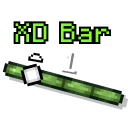
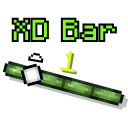
A lot™ of Config Menu changes
* Refactored most of ConfigMenu.java's class to match Lysten's updated config menu
* Replaced Enum "Style" to "State"
* Replaced "Show distance" to "Show small distances"
* Renewed the mod's icon

Changed region(s): [[0.4375, 0.125, 0.9375, 0.3438], [0.0625, 0.125, 0.4062, 0.3438], [0.4688, 0.375, 0.5938, 0.5938]]

diff --git a/src/main/java/me/lukiiy/xdbar/ConfigMenu.java b/src/main/java/me/lukiiy/xdbar/ConfigMenu.java
@@ -4,6 +4,7 @@ import com.google.common.collect.Lists;
 import net.fabricmc.api.EnvType;
 import net.fabricmc.api.Environment;
 import net.minecraft.ChatFormatting;
+import net.minecraft.client.gui.Font;
 import net.minecraft.client.gui.GuiGraphics;
 import net.minecraft.client.gui.components.*;
 import net.minecraft.client.gui.components.events.GuiEventListener;
@@ -11,11 +12,15 @@ import net.minecraft.client.gui.layouts.HeaderAndFooterLayout;
 import net.minecraft.client.gui.layouts.LayoutSettings;
 import net.minecraft.client.gui.layouts.LinearLayout;
 import net.minecraft.client.gui.narration.NarratableEntry;
+import net.minecraft.client.gui.narration.NarratedElementType;
+import net.minecraft.client.gui.narration.NarrationElementOutput;
 import net.minecraft.client.gui.screens.Screen;
 import net.minecraft.network.chat.CommonComponents;
 import net.minecraft.network.chat.Component;
 
+import java.util.Arrays;
 import java.util.List;
+import java.util.Optional;
 
 @Environment(EnvType.CLIENT)
 public class ConfigMenu extends Screen {
@@ -33,12 +38,12 @@ public class ConfigMenu extends Screen {
     @Override
     protected void init() {
         layout.addToHeader(LinearLayout.vertical().spacing(8)).addChild(new StringWidget(TITLE, font), LayoutSettings::alignHorizontallyCenter);
-
         list = new ConfigList();
 
         layout.addToContents(list);
         layout.addToFooter(LinearLayout.horizontal().spacing(8)).addChild(Button.builder(CommonComponents.GUI_DONE, b -> onClose()).width(100).build());
         layout.visitWidgets(this::addRenderableWidget);
+
         repositionElements();
     }
 
@@ -62,8 +67,12 @@ public class ConfigMenu extends Screen {
     }
 
     private class ConfigList extends ContainerObjectSelectionList<ConfigList.Entry> {
+        public final Font font;
+
         public ConfigList() {
             super(ConfigMenu.this.minecraft, ConfigMenu.this.width, layout.getContentHeight(), layout.getHeaderHeight(), 24);
+
+            font = ConfigMenu.this.font;
             loadStuff();
         }
 
@@ -87,8 +96,45 @@ public class ConfigMenu extends Screen {
             return 310;
         }
 
-        abstract static class Entry extends ContainerObjectSelectionList.Entry<Entry> {
+        private EditBox createEditBox(String key, String defaultValue, int width) {
+            EditBox box = new EditBox(font, 0, 0, width, 20, Component.literal(key));
+
+            box.setValue(XDBar.CONFIG.getOrDefault(key, defaultValue));
+            return box;
+        }
+
+        private record StaticNarration(Component text) implements NarratableEntry {
+            @Override
+            public NarrationPriority narrationPriority() {
+                return NarrationPriority.HOVERED;
+            }
+
+            @Override
+            public void updateNarration(NarrationElementOutput output) {
+                output.add(NarratedElementType.TITLE, text);
+            }
+        }
+
+        abstract class Entry extends ContainerObjectSelectionList.Entry<Entry> {
             protected final List<AbstractWidget> children = Lists.newArrayList();
+            protected final Component label;
+            protected final StaticNarration labelNarration;
+            protected AbstractWidget widget;
+
+            protected Entry(Component label, AbstractWidget widget) {
+                this.label = label;
+                this.labelNarration = label == null ? null : new StaticNarration(label);
+                setWidget(widget);
+            }
+
+            protected void setWidget(AbstractWidget widget) {
+                this.widget = widget;
+
+                if (widget != null) {
+                    if (!(widget instanceof CycleButton<?>)) widget.setMessage(label);
+                    children.add(widget);
+                }
+            }
 
             @Override
             public List<? extends GuiEventListener> children() {
@@ -97,149 +143,98 @@ public class ConfigMenu extends Screen {
 
             @Override
             public List<? extends NarratableEntry> narratables() {
-                return children;
+                return widget != null ? children : (labelNarration != null ? List.of(labelNarration) : List.of());
+            }
+
+            @Override
+            public void render(GuiGraphics instance, int index, int y, int x, int width, int height, int mx, int my, boolean hovered, float delta) {
+                if (label != null) instance.drawString(ConfigList.this.font, label, x, y + 6, -1);
+
+                if (widget != null) {
+                    widget.setX(x + width - widget.getWidth());
+                    widget.setY(y);
+                    widget.render(instance, mx, my, delta);
+                }
             }
         }
 
         class CategoryEntry extends Entry {
-            private final Component text;
-
-            public CategoryEntry(String label) {
-                this.text = Component.translatable("xdbar.config.category." + label).withStyle(ChatFormatting.YELLOW, ChatFormatting.BOLD);
+            public CategoryEntry(String key) {
+                super(Component.translatable("xdbar.config.category." + key).withStyle(ChatFormatting.YELLOW, ChatFormatting.BOLD), null);
             }
 
             @Override
-            public void render(GuiGraphics guiGraphics, int index, int y, int x, int width, int height, int mx, int my, boolean hovered, float delta) {
-                guiGraphics.drawCenteredString(font, text, x + width / 2, y + 6, -1);
+            public void render(GuiGraphics instance, int index, int y, int x, int width, int h, int mx, int my, boolean hovered, float delta) {
+                instance.drawCenteredString(font, label, x + width / 2, y + 6, -1);
             }
         }
 
         class BooleanEntry extends Entry {
-            private final Checkbox checkbox;
-            private final Component label;
-
             public BooleanEntry(String key) {
-                this.label = Component.translatable("xdbar.setting." + key);
-                boolean value = XDBar.CONFIG.getBoolean(key);
-
-                checkbox = Checkbox.builder(Component.empty(), font).selected(value).onValueChange((box, val) -> XDBar.CONFIG.set(key, String.valueOf(val))).build();
-                children.add(checkbox);
-            }
-
-            @Override
-            public void render(GuiGraphics guiGraphics, int index, int y, int x, int width, int height, int mx, int my, boolean hovered, float delta) {
-                guiGraphics.drawString(font, label, x, y + 6, -1);
-
-                checkbox.setX(x + width - Checkbox.getBoxSize(font));
-                checkbox.setY(y + 2);
-                checkbox.render(guiGraphics, mx, my, delta);
+                super(Component.translatable("xdbar.setting." + key), Checkbox.builder(Component.empty(), font).selected(XDBar.CONFIG.getBoolean(key)).onValueChange((b, v) -> XDBar.CONFIG.set(key, String.valueOf(v))).build());
             }
         }
 
         class IntEntry extends Entry {
-            private final EditBox box;
-            private final Component label;
-
             public IntEntry(String key, int min, int max) {
-                this.label = Component.translatable("xdbar.setting." + key);
-                String value = XDBar.CONFIG.get(key);
+                super(Component.translatable("xdbar.setting." + key), createEditBox(key, "0", 60));
+                EditBox box = (EditBox) widget;
 
-                box = new EditBox(font, 0, 0, 60, 20, Component.literal(key));
-                box.setValue(value != null ? value : "");
                 box.setFilter(s -> s.isEmpty() || s.matches("\\d+"));
-                box.setResponder(s -> {
-                    if (s.isEmpty()) {
-                        XDBar.CONFIG.set(key, "0");
-                        return;
-                    }
-
-                    XDBar.CONFIG.set(key, String.valueOf(Math.clamp(Integer.parseInt(s), min, max)));
-                });
-                box.setTooltip(Tooltip.create(Component.translatable("xdbar.config.intbox", min, max)));
-
-                children.add(box);
-            }
-
-            @Override
-            public void render(GuiGraphics guiGraphics, int index, int y, int x, int width, int height, int mx, int my, boolean hovered, float delta) {
-                guiGraphics.drawString(font, label, x, y + 6, -1);
-
-                box.setX(x + width - box.getWidth());
-                box.setY(y);
-                box.render(guiGraphics, mx, my, delta);
+                box.setResponder(s -> XDBar.CONFIG.set(key, String.valueOf(Math.clamp(s.isEmpty() ? 0 : Integer.parseInt(s), min, max))));
             }
         }
 
         class ColorEntry extends Entry {
-            private final EditBox box;
-            private final Component label;
-
             public ColorEntry(String key) {
-                this.label = Component.translatable("xdbar.setting." + key);
+                super(Component.translatable("xdbar.setting." + key), createEditBox(key, "", 60));
+                EditBox box = (EditBox) widget;
 
-                String value = XDBar.CONFIG.get(key);
-                String initHex = "";
-
-                if (value != null) {
-                    try { initHex = Integer.toHexString(Integer.parseInt(value)); } catch (NumberFormatException ignored) {}
-                }
-
-                box = new EditBox(font, 0, 0, 60, 20, Component.literal(key));
-                box.setValue(initHex);
                 box.setMaxLength(8);
                 box.setFilter(s -> s.matches("^[0-9A-Fa-f]{0,8}$"));
-                box.setResponder(s -> XDBar.CONFIG.set(key, String.valueOf(XDBar.hexToInt(s))));
+                box.setValue(Integer.toHexString(Integer.parseInt(XDBar.CONFIG.getOrDefault(key, "0"))));
+                box.setResponder(s -> XDBar.CONFIG.set(key, String.valueOf(hexToInt(s))));
                 box.setTooltip(Tooltip.create(Component.translatable("xdbar.config.colortip")));
-
-                children.add(box);
             }
 
             @Override
-            public void render(GuiGraphics guiGraphics, int index, int y, int x, int width, int height, int mx, int my, boolean hovered, float delta) {
-                guiGraphics.drawString(font, label, x, y + 6, -1);
-                box.setX(x + width - box.getWidth());
-                box.setY(y);
-                box.render(guiGraphics, mx, my, delta);
+            public void render(GuiGraphics instance, int index, int y, int x, int width, int h, int mx, int my, boolean hovered, float delta) {
+                super.render(instance, index, y, x, width, h, mx, my, hovered, delta);
 
-                int parsed = XDBar.hexToInt(box.getValue());
-                if (parsed != 0) {
+                int color = hexToInt(((EditBox) widget).getValue());
+                if (color != 0) {
                     int size = 10;
-                    int gap = 5;
-                    int px = box.getX() - gap - size;
-                    int py = box.getY() + (box.getHeight() - size) / 2;
+                    int px = widget.getX() + widget.getWidth() - size / 2;
+                    int py = widget.getY() - size / 2;
 
-                    guiGraphics.fill(px, py, px + size, py + size, parsed);
-                    guiGraphics.renderOutline(px, py, size, size, 0xFF000000);
+                    instance.fill(px, py, px + size, py + size, 0xFF000000 | color);
+                    instance.renderOutline(px, py, size, size, 0xFF000000);
+                }
+            }
+
+            private static int hexToInt(String hex) {
+                if (hex == null || hex.isEmpty()) return 0;
+
+                hex = hex.replace("#", "");
+                if (hex.length() == 6) hex = "FF" + hex;
+
+                try {
+                    return (int) (Long.parseLong(hex, 16) & 0xFFFFFFFFL);
+                } catch (NumberFormatException e) {
+                    return 0;
                 }
             }
         }
 
         class EnumEntry<T extends Enum<T>> extends Entry {
-            private final CycleButton<T> button;
-            private final Component label;
-            private final int width;
-
             public EnumEntry(String key, String cycleLabel, Class<T> enumClass) {
-                this.label = Component.translatable("xdbar.setting." + key);
+                super(Component.translatable("xdbar.setting." + key), null);
+
                 T[] values = enumClass.getEnumConstants();
-                String confValue = XDBar.CONFIG.get(key);
-                T current = confValue != null ? Enum.valueOf(enumClass, confValue) : values[0];
+                T current = Optional.ofNullable(XDBar.CONFIG.get(key)).map(v -> Enum.valueOf(enumClass, v)).orElse(values[0]);
 
-                int maxEnumWidth = 0;
-                for (T value : values) if (font.width(value.name()) > maxEnumWidth) maxEnumWidth = font.width(value.name());
-
-                width = font.width(Component.translatable(cycleLabel)) + font.width(Component.literal(": ")) + maxEnumWidth + 10;
-                button = CycleButton.<T>builder(val -> Component.literal(val.name())).withValues(values).withInitialValue(current).create(0, 0, width, 20, Component.translatable(cycleLabel), (btn, val) -> XDBar.CONFIG.set(key, val.name()));
-                children.add(button);
-            }
-
-            @Override
-            public void render(GuiGraphics guiGraphics, int index, int y, int x, int width, int height, int mx, int my, boolean hovered, float delta) {
-                guiGraphics.drawString(font, label, x, y + 6, -1);
-
-                button.setX(x + width - button.getWidth());
-                button.setY(y);
-                button.render(guiGraphics, mx, my, delta);
+                int width = font.width(Component.translatable(cycleLabel)) + font.width(": ") + Arrays.stream(values).mapToInt(v -> font.width(v.name())).max().orElse(0) + 10;
+                setWidget(CycleButton.<T>builder(v -> Component.literal(v.name())).withValues(values).withInitialValue(current).create(0, 0, width, 20, Component.translatable(cycleLabel), (btn, val) -> XDBar.CONFIG.set(key, val.name())));
             }
         }
     }

diff --git a/src/main/java/me/lukiiy/xdbar/XDBar.java b/src/main/java/me/lukiiy/xdbar/XDBar.java
@@ -80,19 +80,6 @@ public class XDBar implements ClientModInitializer {
         CONFIG.set("locatorBar.background", set.name());
     }
 
-    public static int hexToInt(String hex) {
-        if (hex == null || hex.isEmpty()) return 0;
-
-        hex = hex.replace("#", "");
-        if (hex.length() == 6) hex = "FF" + hex;
-
-        try {
-            return (int) (Long.parseLong(hex, 16) & 0xFFFFFFFFL);
-        } catch (NumberFormatException e) {
-            return 0;
-        }
-    }
-
     public enum LocatorBgVisibility {
         ENABLED,
         DISABLED,
